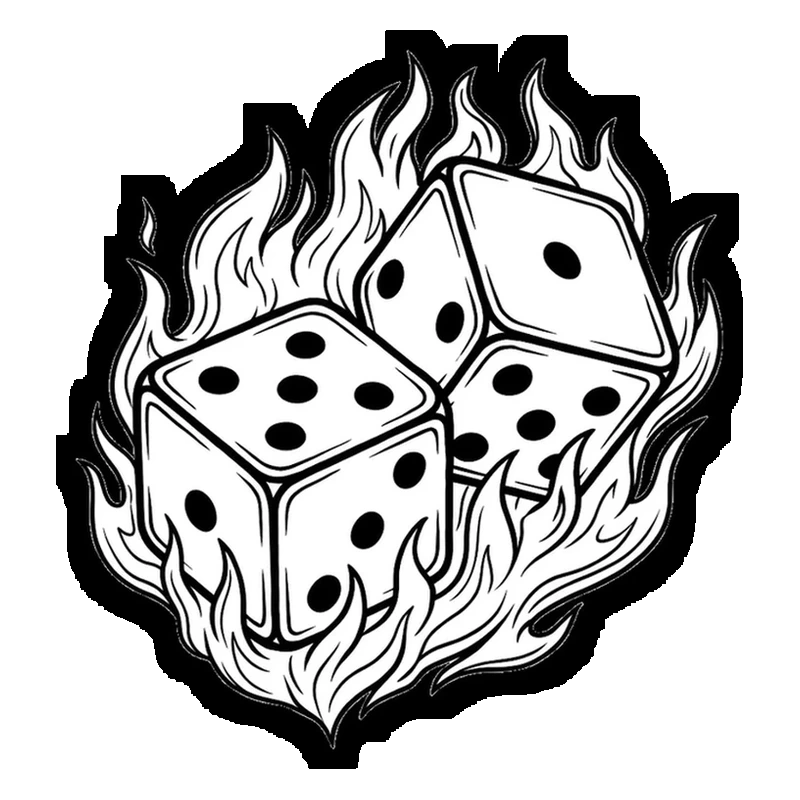
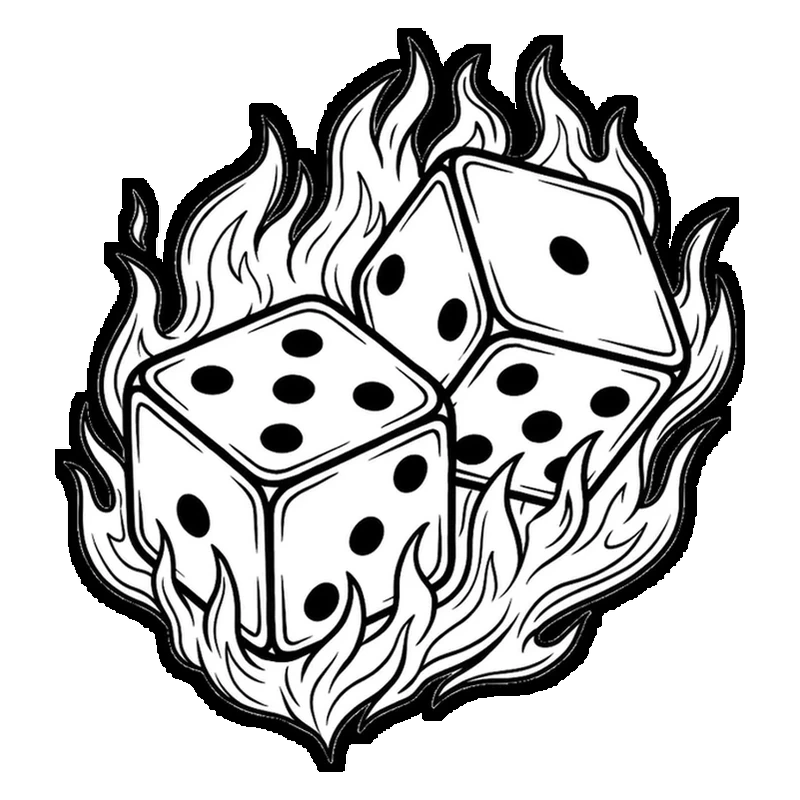
Fix border-thickening bug: make add_border idempotent across re-runs

Changed region(s): [[0.0625, 0.0312, 0.9375, 0.9688], [0.6562, 0.2812, 0.75, 0.375]]

diff --git a/frontend/scripts/standardize_tile_icons.py b/frontend/scripts/standardize_tile_icons.py
@@ -297,7 +297,14 @@ def rescale_to_canvas(img: Image.Image, name: str, match_height_fill: float) -> 
 def add_border(img: Image.Image) -> Image.Image:
     alpha = img.split()[-1]
     solid_mask = alpha.point(lambda v: 255 if v > 10 else 0)
-    dilated = solid_mask.filter(ImageFilter.MaxFilter(BORDER_PX * 2 + 1))
+    # Erode by BORDER_PX first to strip off a ring this same function may
+    # already have added on a previous run, then dilate back out by the
+    # same amount. This "opening" is idempotent -- re-running it on an
+    # already-bordered file reconstructs the same ring instead of stacking
+    # another one on top (which is what plain dilation did, and why
+    # repeated pipeline runs kept fattening every icon's border).
+    core_mask = solid_mask.filter(ImageFilter.MinFilter(BORDER_PX * 2 + 1))
+    dilated = core_mask.filter(ImageFilter.MaxFilter(BORDER_PX * 2 + 1))
     black_ring = Image.new("RGBA", img.size, (0, 0, 0, 255))
     out = Image.new("RGBA", img.size, (0, 0, 0, 0))
     out.paste(black_ring, (0, 0), dilated)
